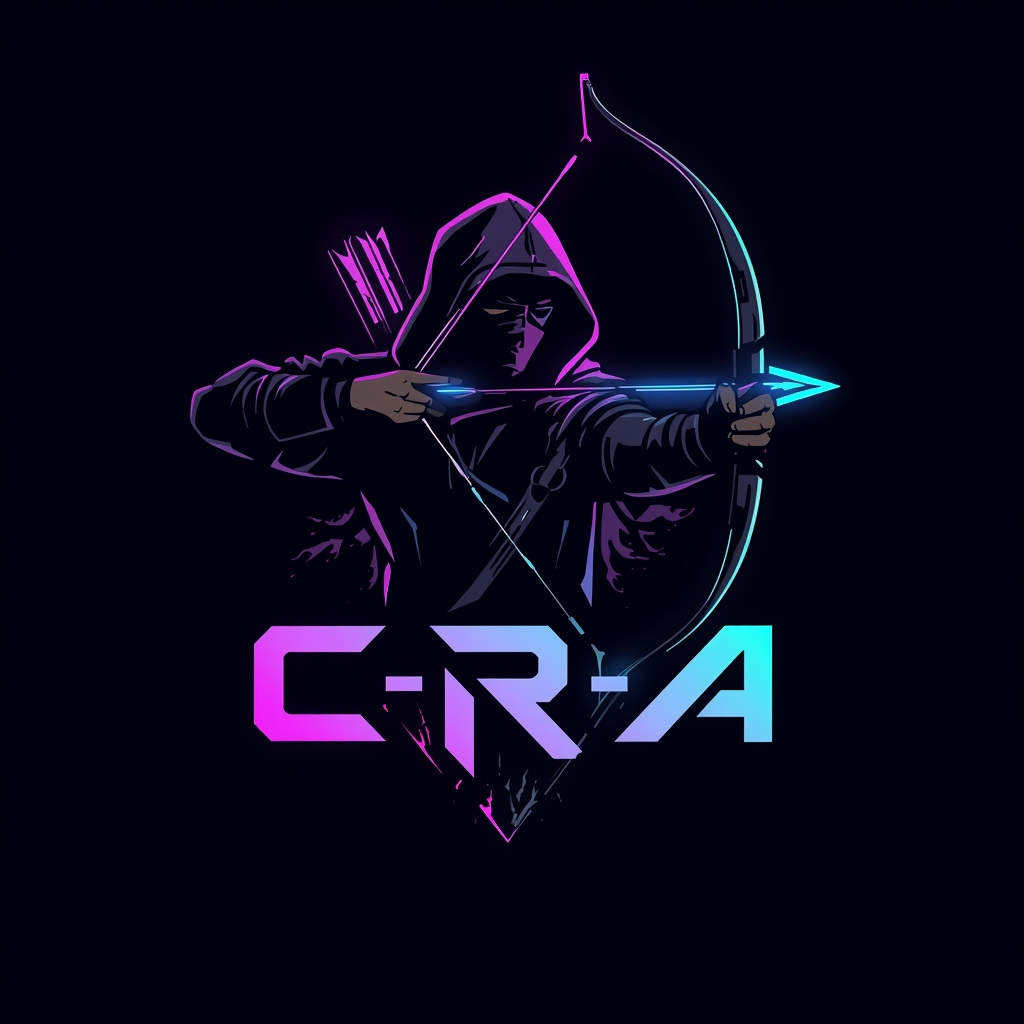
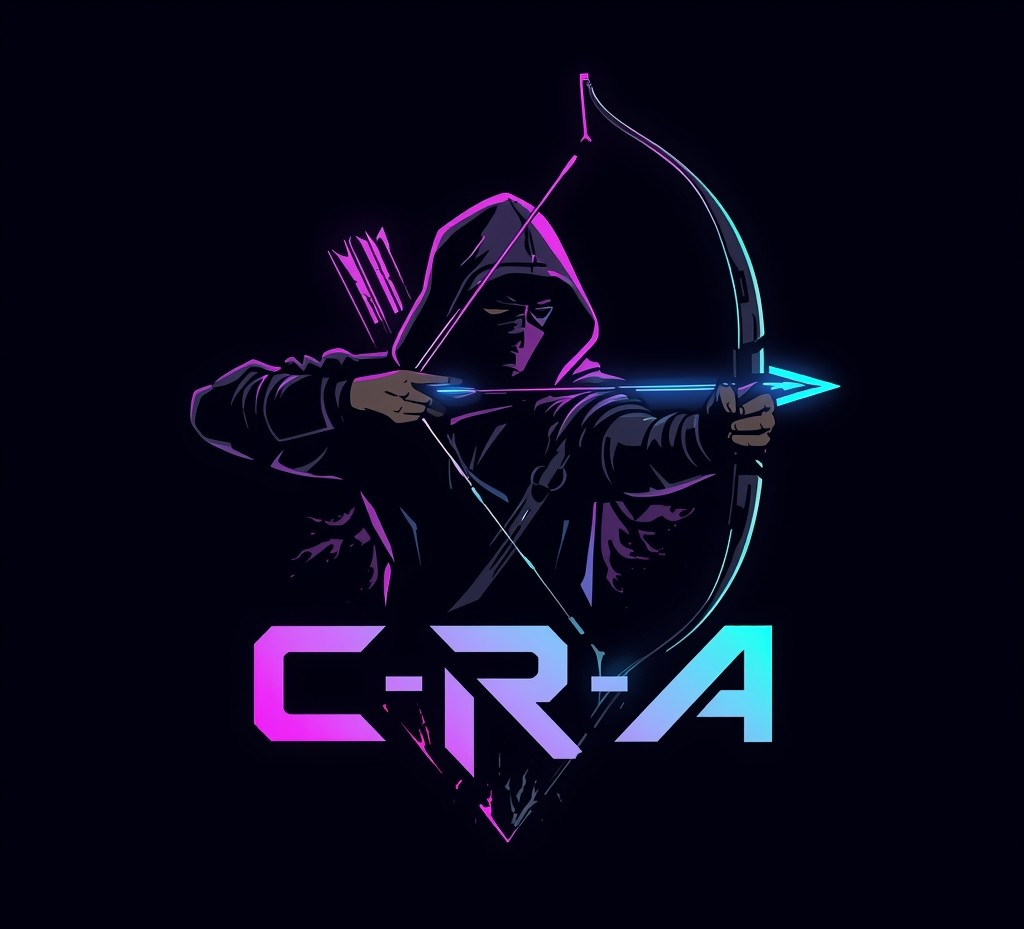
set lg

Changed region(s): [[0.1875, 0.0624, 0.8438, 0.9053]]

diff --git a/index.html b/index.html
@@ -60,7 +60,7 @@
             <div class="about-image">
                 <!-- Placeholder for an image -->
                 <div class="placeholder-image">
-                    <img src="https://raw.githubusercontent.com/bl4ckArch9r/C-R-A-web/main/Public/Imagers/logo.jpg" alt="team">
+                    <img src="https://raw.githubusercontent.com/bl4ckArch9r/C-R-A-web/main/Public/Imagers/lg.jpg" alt="team">
                 </div>
             </div>
         </div>
